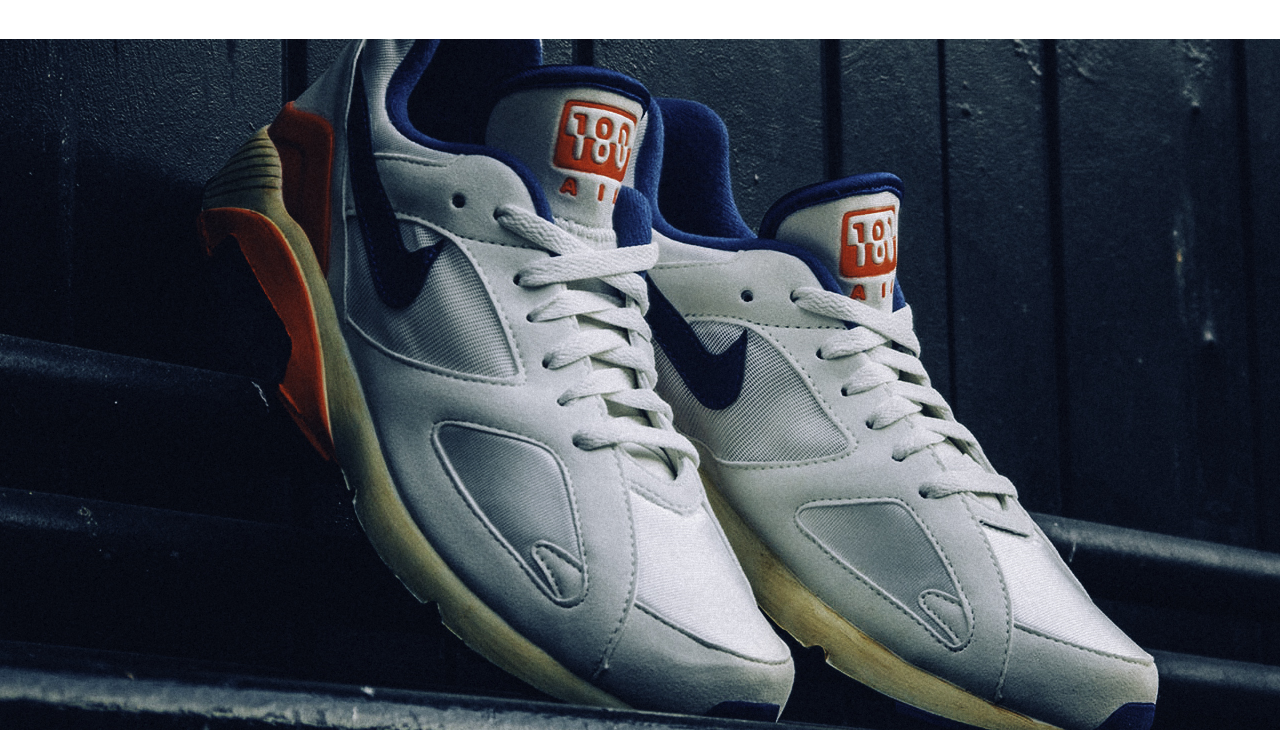
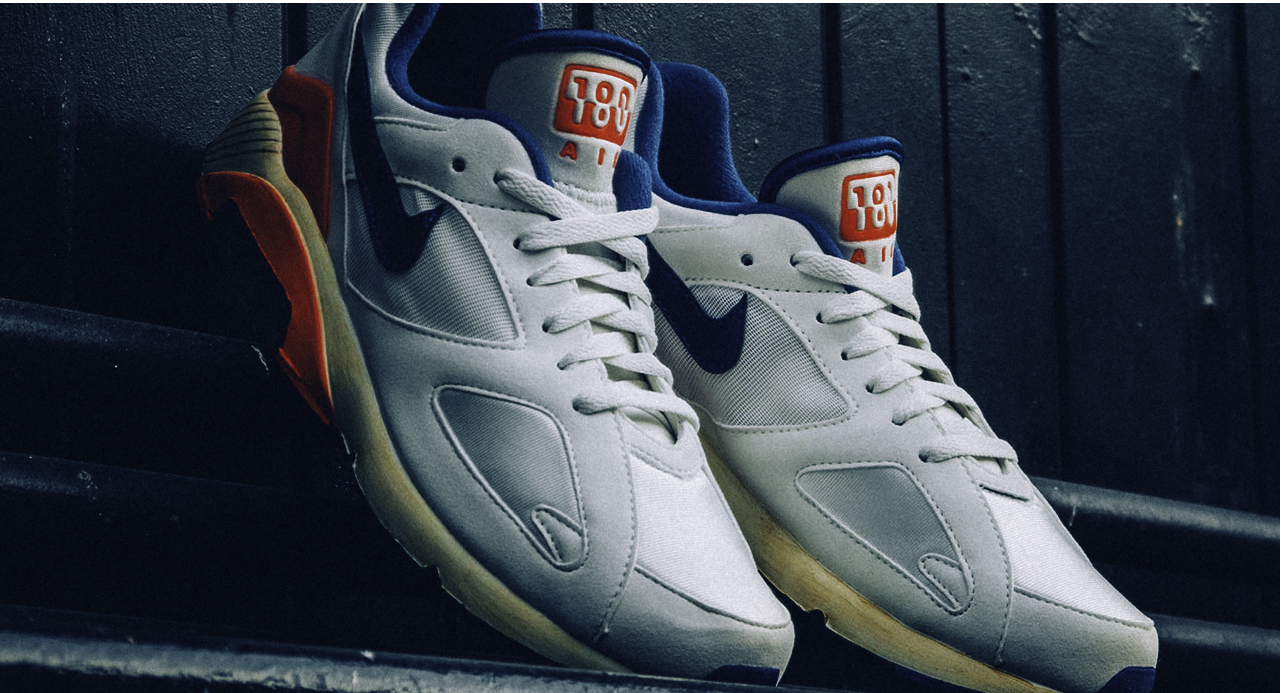
Hero image adjustment

diff --git a/styles.css b/styles.css
@@ -4,18 +4,12 @@
 	padding: 0;
 }
 
-body {
-	background-color: #E5E5E5;
+body, html {
+    height: 100%;
 }
 
-#banner {
-	background-image: url('images/nike-air-max.png');
-	background-repeat: no-repeat;
-	background-size: cover;
-	height: 800px;
-	background-position: 0px 65px;
-	margin-bottom: 50px;
-
+body {
+	background-color: #E5E5E5;
 }
 
 /* Black Top-Header Styles Below: */
@@ -152,4 +146,14 @@ header a {
 #rightSideNav form button:hover {
 	background-color: #00D000;
 	cursor: pointer;
+}
+
+/* Hero Image and Hero Navigation Below: */
+
+#hero {
+	background-image: url('images/nike-air-max.png');
+  	background-repeat: no-repeat;
+  	background-size: cover;
+	height: 800px;
+	margin-top: -3px;
 }

diff --git a/index.html b/index.html
@@ -10,7 +10,7 @@
 </head>
 
 <body>
-<div id="banner">
+
 	<header>
 		<div class="headerTop">
 			<div id="loginSignup">
@@ -53,7 +53,9 @@
 			</div>
 		</div>
 	</header>
-</div>	
+	<section id="hero">
+	
+	</section>		
 
 <script src="./scripts.js"></script>
 </body>
